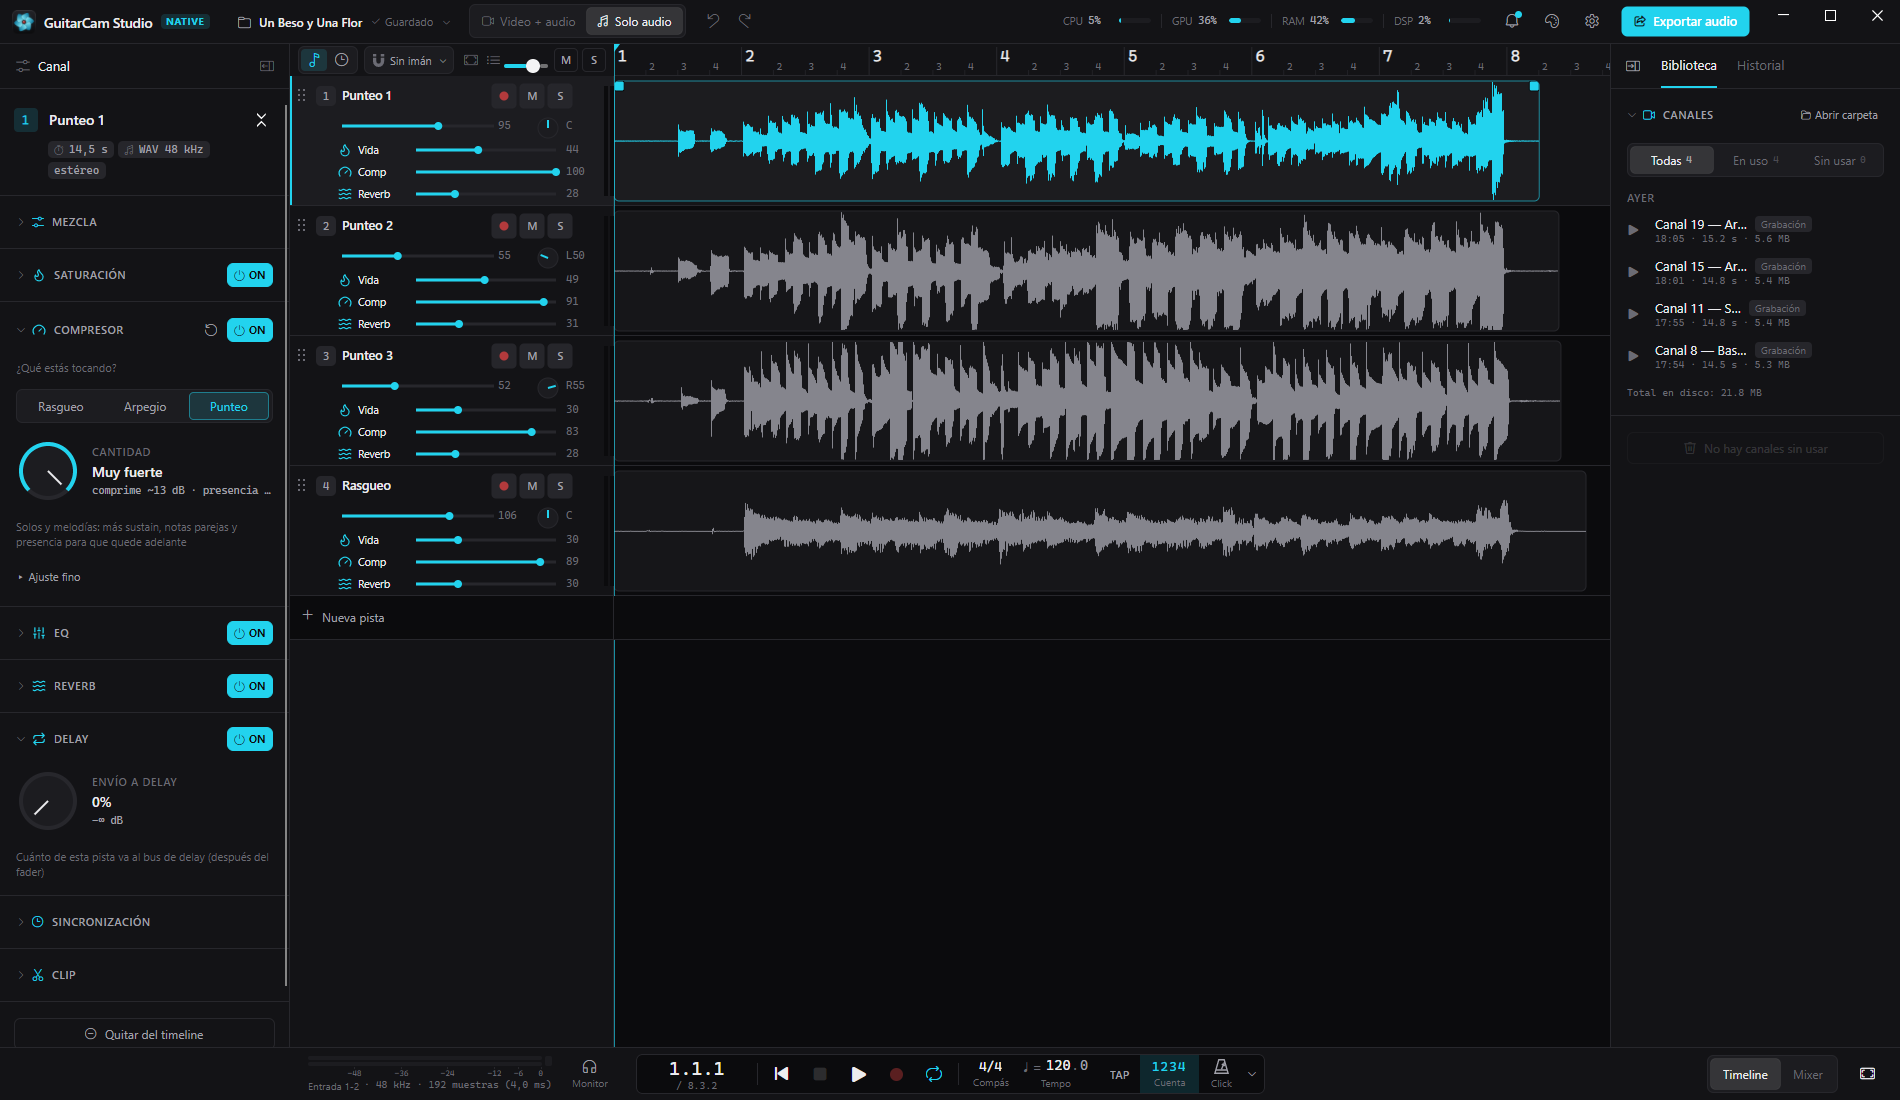
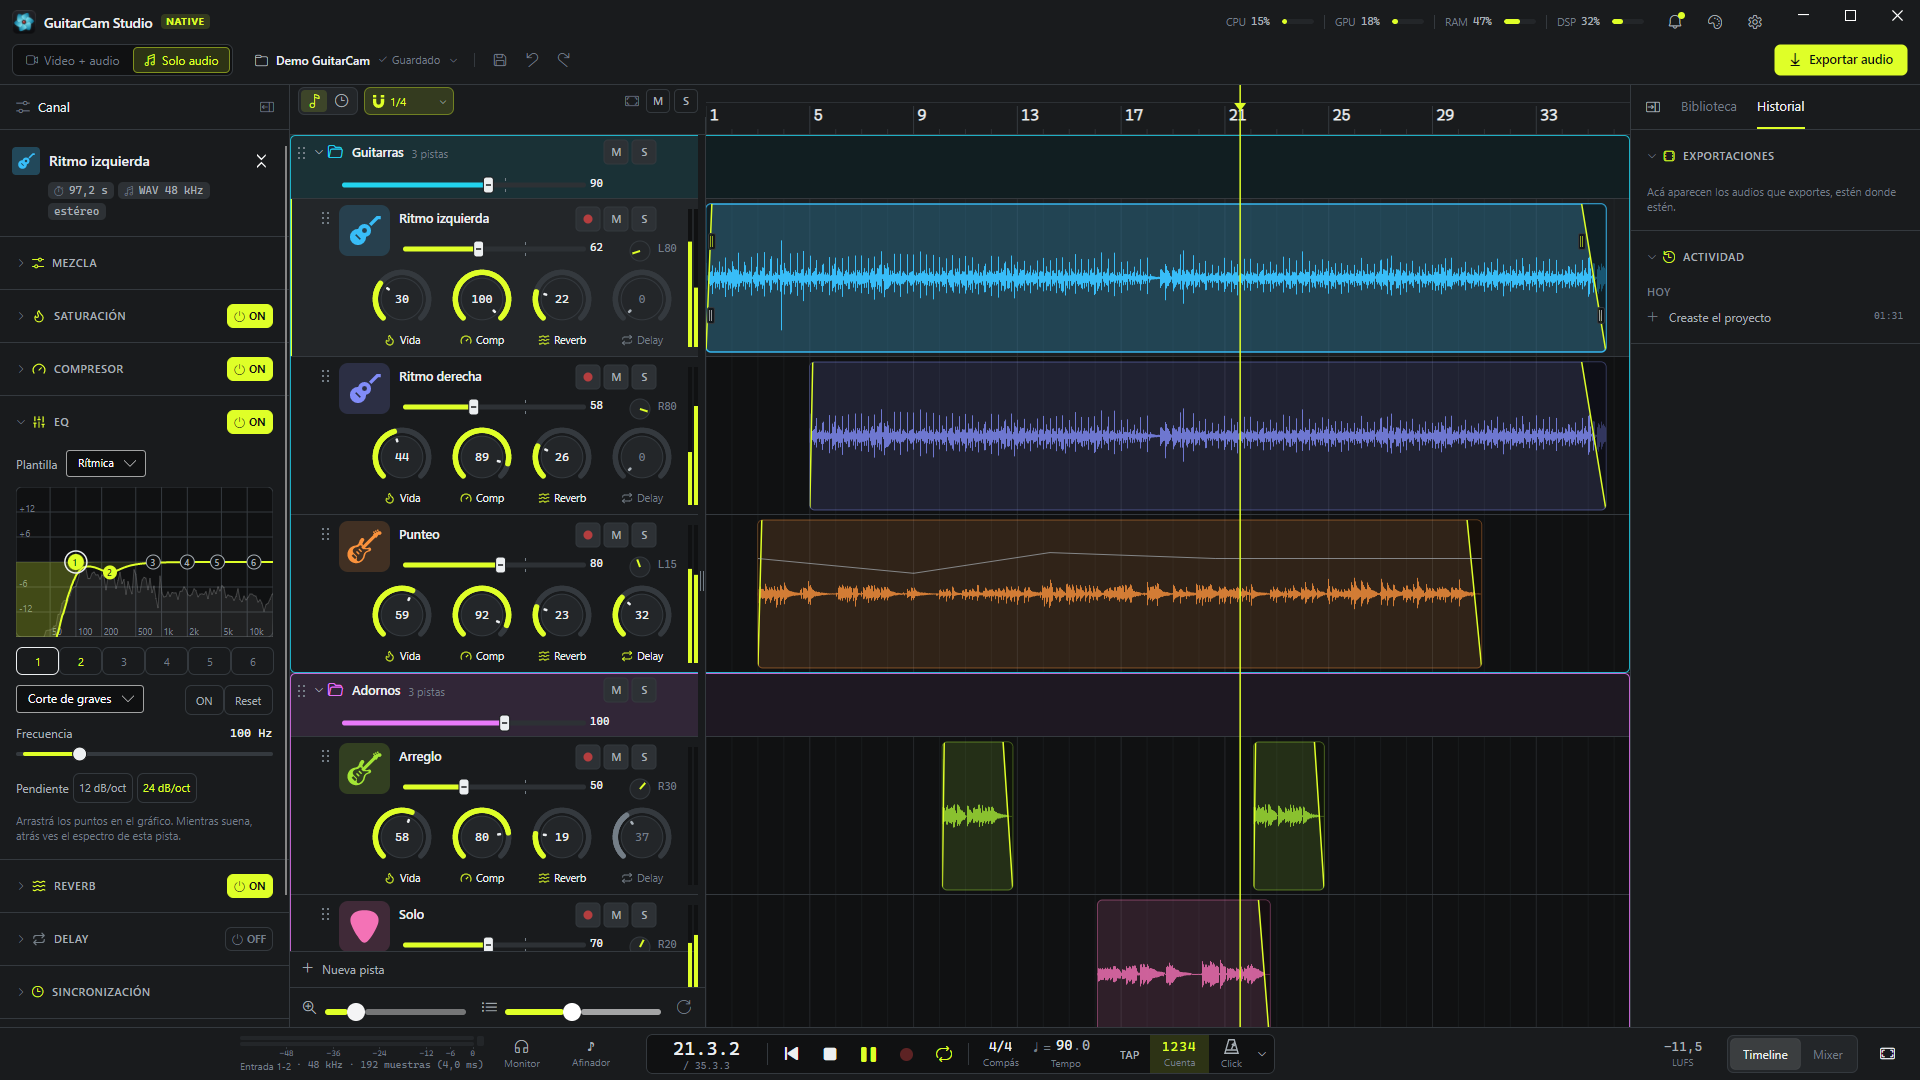
Refresh the README with new demo screenshots and an updated feature list

diff --git a/README.md b/README.md
@@ -12,34 +12,63 @@ sirve para hacer música sin video).
 Está pensada para usarse con la guitarra colgada: atajos de una tecla, botones grandes y un camino corto
 de **grabar → mezclar → exportar**.
 
-![El timeline, con un panel de video por toma](docs/screenshot-timeline.png)
+![El timeline en modo Video: un panel por toma, carpetas de pistas con su color, el inspector del canal y la pestaña de color](docs/screenshot-timeline.png)
 
-![El mixer, con una tira por pista, los retornos de reverb y delay y el master](docs/screenshot-mixer.png)
+| | |
+|---|---|
+| ![El mixer sonando: carpetas como VCA, retornos de reverb y delay y el master](docs/screenshot-mixer.png) | ![Formato vertical 9:16 apilado, listo para Reels, Shorts y TikTok](docs/screenshot-vertical.png) |
+| **El mixer**: una tira por pista, las carpetas como VCA, los retornos de reverb y delay y el master. | **Vertical 9:16** para Reels, Shorts y TikTok, con un look de color aplicado. |
 
-![El modo Solo audio: un DAW sin video](docs/screenshot-audio.png)
+![El modo Solo audio: pistas con sus knobs de efecto y el EQ con el espectro en vivo](docs/screenshot-audio.png)
+
+*Las capturas son del proyecto de demo; las imágenes de los paneles son fotos de [Unsplash](https://unsplash.com).*
 
 ## Qué hace
 
-- **Graba** audio por ASIO (entrada y salida en un mismo callback, con monitoreo) y video desde una cámara
-  (DirectShow o DroidCam por IP). Cada toma se escribe a disco mientras ocurre, así que un corte no la pierde.
-- **Edita en un timeline**: varias pistas, clips que se mueven, recortan, dividen y duplican, fades, ganancia
-  por clip con su curva de volumen, rango de borrado, deshacer y rehacer ilimitados, e importación de audio de
-  afuera (WAV, MP3, FLAC, OGG, M4A, AIFF). Se graba desde donde esté el cabezal, para regrabar solo un pedazo.
-  Las pistas se agrupan en **carpetas** que se pliegan, y se arrastran adentro y afuera por su manija.
-  Un sonido que te gusta se guarda como **plantilla de pista** y vuelve desde Nueva pista → Plantilla.
-- **Mezcla** con una cadena de efectos por pista: saturación ("Vida", válvula o cinta), compresor con
-  presets (Rasgueo / Arpegio / Punteo), EQ de 6 bandas con espectro en vivo, y envíos a reverb y delay,
-  más limitador master, paneo con plantillas y un mixer completo. Cada pista lleva su color y un ícono de
-  instrumento (guitarras, bajo, batería, synths, cuerdas, vientos, percusión…), en el timeline, el inspector y el mixer.
-  Cada carpeta tiene en el mixer su propio canal: su fader, M y S mandan sobre todas sus pistas, como un VCA.
-- **Compone el video**: un panel por pista con cover-fit, zoom, paneo y espejo, relaciones 16:9 / 9:16 / 1:1,
-  disposición lado a lado o apilada, y una pestaña de color (filtros, ajustes, efectos y plantillas).
-- **Exporta** a MP4 (mezcla offline + FFmpeg, con progreso y cancelación) o, en el modo **Solo audio**, a
-  WAV de 24 bits o MP3 de 320 kbps; si querés, además cada pista en su WAV (stems). Lo que ves en la vista
-  previa es lo que se exporta.
-- **Metrónomo** con compás, tempo, tap tempo, cuenta previa y seis sonidos de click; calibración de latencia
-  con cable o tocando. **Afinador** (notas en castellano, flechas que
-  te dicen para dónde girar la clavija y sensibilidad ajustable) y medidor de **LUFS** del master en la barra de transporte.
+### Grabar
+
+- Audio por **ASIO** (entrada y salida en un mismo callback, con monitoreo) y video desde una cámara (DirectShow o
+  DroidCam por IP). Cada toma se escribe a disco mientras ocurre, así que un corte no la pierde.
+- Se graba desde donde esté el cabezal, para regrabar solo un pedazo, con **metrónomo** (compás, tempo, tap tempo,
+  cuenta previa y seis sonidos de click) y **calibración de latencia** con cable o tocando.
+- **Afinador** con notas en castellano, flechas que te dicen para dónde girar la clavija y sensibilidad ajustable.
+
+### Editar
+
+- **Timeline** con varias pistas: clips que se mueven, recortan, dividen y duplican, fades, ganancia por clip con su
+  **curva de volumen**, rango de borrado, deshacer y rehacer ilimitados, e importación de audio de afuera (WAV, MP3,
+  FLAC, OGG, M4A, AIFF).
+- **Carpetas** que se pliegan y agrupan pistas; varias pistas se marcan con Ctrl+clic / Shift+clic y se mueven juntas.
+  Cada pista tiene su **color** (24, en orden de arco iris) y un **ícono de instrumento** (guitarras, bajo, batería,
+  synths, cuerdas, vientos, percusión…), su propio alto y sus knobs de Vida, Comp, Reverb y Delay en el encabezado.
+- Un sonido que te gusta se guarda como **plantilla de pista** y vuelve desde Nueva pista → Plantilla.
+- Arriba de la regla, un **rango A–B** para repetir un tramo (practicar el solo, mezclar un pedazo) y **marcadores**
+  con nombre (Intro, Estribillo, Solo…) para saltar de una parte a otra. Zoom de un tiempo a toda la canción con
+  las teclas 1 a 5.
+
+### Mezclar
+
+- Cadena de efectos por pista: saturación (**Vida**, válvula o cinta), **compresor** con presets (Rasgueo / Arpegio /
+  Punteo), **EQ de 6 bandas** con espectro en vivo, y envíos a **reverb** y **delay**, más limitador master y paneo
+  con plantillas.
+- **Mixer** completo; cada carpeta tiene su propio canal y su fader, M y S mandan sobre todas sus pistas, como un VCA.
+- Audio de nivel profesional: arrancar, parar, saltar y arrastrar el cabezal llevan su fundido, sin clics ni cortes.
+
+### Armar el video
+
+- Un panel por pista con cover-fit, zoom, paneo y espejo; relaciones **16:9 / 9:16 / 1:1**, disposición lado a lado
+  o apilada.
+- Pestaña de **color** con 26 looks (Brujo, Cine, Moody, Fresco, Noche azul, Hielo…), ajustes (exposición, contraste,
+  Blancos, Negros, Sensación de luz…), efectos y plantillas. Lo que ves en la vista previa es lo que se exporta.
+
+### Exportar
+
+- **MP4** (mezcla offline + FFmpeg, con progreso y cancelación), con presets para **Reels · TikTok**, **YouTube** e
+  **Instagram** (1:1 y 4:5) que acomodan el cuadro y llevan la mezcla a −14 LUFS.
+- En el modo **Solo audio**, WAV de 24 bits o MP3 de 320 kbps; si querés, además cada pista en su WAV (stems).
+  Medidor de **LUFS** del master en la barra de transporte.
+### Y además
+
 - **No pierde nada**: guardado atómico (solo después de cada edición, cada X minutos o a mano con Ctrl+S o el
   diskette, a elección en Configuración → Guardado; las tomas se guardan siempre), copias en `historial/` para volver
   atrás, recuperación de grabaciones interrumpidas y un gestor de proyectos con Papelera.
@@ -88,6 +117,9 @@ Todos se pueden cambiar en ⚙ Configuración → Atajos de teclado (menos Esc).
 | Shift+R o Num * | grabar (grabando: detener y guardar) |
 | R | armar / desarmar la pista seleccionada |
 | Inicio | volver al principio |
+| L | repetir en loop (el rango A–B, o todo el tema) |
+| I / O | inicio (A) / final (B) del rango en el cabezal |
+| K / , / . | marcador en el cabezal / ir al anterior / al siguiente |
 | C / Shift+C / T | click / cuenta previa / tap tempo |
 | A | afinador |
 | M / S | mute / solo de la pista |
@@ -105,6 +137,12 @@ Todos se pueden cambiar en ⚙ Configuración → Atajos de teclado (menos Esc).
 
 En el clip seleccionado, un clic sobre su línea de volumen agrega un punto; los puntos se arrastran y un
 doble clic los saca.
+
+En la franja de arriba de la regla, arrastrar marca el rango A–B (y prende el loop); sus bordes y el rango entero se
+arrastran. Doble clic agrega un marcador; los marcadores se arrastran, un clic salta ahí y doble clic los renombra.
+Clic derecho en la franja: agregar marcador, empezar o terminar el rango ahí, sacarlo, y en un marcador ponerle un
+nombre de la lista o repetir hasta el siguiente. Un rango marcado con Shift+arrastrar en una pista también se puede
+repetir desde su menú.
 
 Cada pista o carpeta puede tener su propio alto: arrastrá el borde de abajo de su encabezado (doble clic en el borde
 la vuelve al alto general). El botón ↺ al pie de los encabezados iguala todas.
@@ -166,6 +204,7 @@ la consola, sin abrir la ventana.
 | `exportar [proyecto] [--calidad alta\|estandar\|borrador] [--salida nombre]` | exporta el MP4 |
 | `exportar proyecto --audio wav\|mp3` | exporta solo la mezcla |
 | `exportar proyecto … --stems` | además, un WAV por pista en `<nombre> - stems` |
+| `exportar proyecto … --destino reels\|youtube\|ig-square\|ig-portrait [--lufs -14] [--cola 8]` | con el cuadro y el volumen de esa red; `--lufs` lleva la mezcla a ese volumen integrado, `--cola` deja sonar reverb y delay hasta N s después del último clip (0 = corta). Muestra los LUFS del resultado |
 | `proyecto abrir\|clips\|versiones\|volver carpeta` | abre un proyecto, lista pistas y clips, y recorre el historial |
 | `proyecto toma\|cortar carpeta [--camara]` | graba un tono como la ventana / lo corta sin cerrar, para probar la recuperación |
 | `proyecto editar carpeta mover\|recortar-inicio\|recortar-final\|fade-in\|fade-out clip delta` | edita un clip como en el timeline (más: `a-pista`, `dividir`, `duplicar`, `ganancia`, `curva`, `quitar-clip`, `nueva-pista`…) |
@@ -173,8 +212,9 @@ la consola, sin abrir la ventana.
 | `proyecto editar carpeta guardar-plantilla pista [nombre] \| usar-plantilla nombre`, `proyecto plantillas-de-pista x` | plantillas de pista (`pistas.json`) |
 | `proyecto encuadre\|sincronia\|formato\|modo carpeta …` | encuadre del clip, ajuste de sincronía, formato del video y modo Video / Solo audio |
 | `proyecto importar-audio carpeta archivo` | copia un audio de afuera a `media/` y lo pone en una pista |
+| `proyecto marcadores carpeta [agregar\|mover\|renombrar\|quitar …]`, `proyecto repetir carpeta [desde hasta \| --quitar]` | marcadores del tema y rango A–B del loop |
 | `proyecto historial carpeta` | tomas en uso y no usadas, exportaciones y actividad |
-| `proyecto verificar-deshacer\|verificar-clips\|verificar-tomas\|verificar-importar\|verificar-historial\|verificar-carpetas` | pruebas automáticas sobre una carpeta temporal |
+| `proyecto verificar-deshacer\|verificar-clips\|verificar-tomas\|verificar-importar\|verificar-historial\|verificar-carpetas\|verificar-marcadores` | pruebas automáticas sobre una carpeta temporal |
 | `proyectos lista\|plantillas\|nuevo\|renombrar\|duplicar\|borrar\|olvidar\|carpeta` | lo que hace el gestor de proyectos |
 | `proyectos guardar-plantilla\|borrar-plantilla` | plantillas de proyecto del usuario |
 | `proyectos plantillas-video\|guardar-plantilla-video\|aplicar-plantilla-video\|borrar-plantilla-video` | plantillas de video (filtro, ajustes y efectos) |

diff --git a/README_EN.md b/README_EN.md
@@ -12,35 +12,65 @@ music without video).
 It is designed to be used with the guitar strapped on: one-key shortcuts, big buttons and a short path of
 **record → mix → export**.
 
-![The timeline, with a video panel per take](docs/screenshot-timeline.png)
+![The timeline in Video mode: one panel per take, colored track folders, the channel inspector and the color tab](docs/screenshot-timeline.png)
 
-![The mixer, with one strip per track, the reverb and delay returns and the master](docs/screenshot-mixer.png)
+| | |
+|---|---|
+| ![The mixer while playing: folders as VCAs, reverb and delay returns and the master](docs/screenshot-mixer.png) | ![Vertical 9:16 stacked layout, ready for Reels, Shorts and TikTok](docs/screenshot-vertical.png) |
+| **The mixer**: one strip per track, folders as VCAs, the reverb and delay returns and the master. | **Vertical 9:16** for Reels, Shorts and TikTok, with a color look applied. |
 
-![Audio only mode: a DAW without video](docs/screenshot-audio.png)
+![Audio only mode: tracks with their effect knobs and the EQ with its live spectrum](docs/screenshot-audio.png)
+
+*The screenshots show the demo project; the panel images are photos from [Unsplash](https://unsplash.com).*
 
 ## What it does
 
-- **Records** audio over ASIO (input and output in the same callback, with monitoring) and video from a
-  camera (DirectShow or DroidCam over IP). Each take is written to disk as it happens, so a crash does not lose it.
-- **Edits on a timeline**: multiple tracks, clips you can move, trim, split and duplicate, fades, clip gain
-  with its own volume curve, range delete, unlimited undo and redo, and import of outside audio (WAV, MP3, FLAC,
-  OGG, M4A, AIFF). Recording starts at the playhead, so you can redo just one part. Tracks group into **folders**
-  that fold, and drag in and out by their handle. A sound you like saves as a **track preset** and comes back from
-  New track → Preset.
-- **Mixes** with a per-track effects chain: saturation ("Vida", tube or tape), a compressor with presets
-  (Strumming / Arpeggio / Lead), a 6-band EQ with live spectrum, and sends to reverb and delay, plus a master
-  limiter, pan templates and a full mixer. Each track gets its own color and an instrument icon (guitars, bass,
-  drums, synths, strings, winds, percussion…), shown in the timeline, the inspector and the mixer. Each folder gets
-  its own mixer channel: its fader, M and S rule all its tracks, like a VCA.
-- **Composes the video**: a panel per track with cover-fit, zoom, pan and mirror, 16:9 / 9:16 / 1:1 aspect
-  ratios, side-by-side or stacked layout, and a color tab (filters, adjustments, effects and templates).
-- **Exports** to MP4 (offline mix + FFmpeg, with progress and cancellation) or, in **Audio only** mode, to
-  24-bit WAV or 320 kbps MP3; optionally each track in its own WAV too (stems). What you see in the preview
-  is what gets exported.
-- **Metronome** with time signature, tempo, tap tempo, count-in and six click sounds; latency calibration
-  with a cable or by playing. A **tuner** (arrows that tell you which way to turn the peg, adjustable sensitivity) and a master **LUFS** meter in the transport bar.
-- **Never loses anything**: atomic autosave 1.5 s after every edit, copies in `historial/` to go back,
-  recovery of interrupted recordings and a project manager with a Recycle Bin.
+### Record
+
+- Audio over **ASIO** (input and output in the same callback, with monitoring) and video from a camera (DirectShow
+  or DroidCam over IP). Each take is written to disk as it happens, so a crash does not lose it.
+- Recording starts at the playhead, so you can redo just one part, with a **metronome** (time signature, tempo, tap
+  tempo, count-in and six click sounds) and **latency calibration** with a cable or by playing.
+- A **tuner** with arrows that tell you which way to turn the peg and adjustable sensitivity.
+
+### Edit
+
+- A multitrack **timeline**: clips you can move, trim, split and duplicate, fades, clip gain with its own **volume
+  curve**, range delete, unlimited undo and redo, and import of outside audio (WAV, MP3, FLAC, OGG, M4A, AIFF).
+- **Folders** that fold and group tracks; Ctrl+click / Shift+click marks several tracks to move them together. Each
+  track gets its own **color** (24, in rainbow order), an **instrument icon** (guitars, bass, drums, synths, strings,
+  winds, percussion…), its own height and Vida, Comp, Reverb and Delay knobs in its header.
+- A sound you like saves as a **track preset** and comes back from New track → Preset.
+- Above the ruler, an **A–B range** loops a stretch (to practice the solo or mix a part) and named **markers**
+  (Intro, Chorus, Solo…) jump from one part to another. Zoom from one beat to the whole song with keys 1 to 5.
+
+### Mix
+
+- A per-track effects chain: saturation (**Vida**, tube or tape), a **compressor** with presets (Strumming /
+  Arpeggio / Lead), a **6-band EQ** with live spectrum, and sends to **reverb** and **delay**, plus a master limiter
+  and pan templates.
+- A full **mixer**; each folder gets its own channel, and its fader, M and S rule all its tracks, like a VCA.
+- Professional-grade audio: starting, stopping, jumping and dragging the playhead all fade, with no clicks or dropouts.
+
+### Build the video
+
+- A panel per track with cover-fit, zoom, pan and mirror; **16:9 / 9:16 / 1:1** aspect ratios, side-by-side or
+  stacked layout.
+- A **color** tab with 26 looks (Brujo, Cine, Moody, Fresco, Noche azul, Hielo…), adjustments (exposure, contrast,
+  whites, blacks, light…), effects and templates. What you see in the preview is what gets exported.
+
+### Export
+
+- **MP4** (offline mix + FFmpeg, with progress and cancellation), with presets for **Reels · TikTok**, **YouTube** and
+  **Instagram** (1:1 and 4:5) that fit the frame and bring the mix to −14 LUFS.
+- In **Audio only** mode, 24-bit WAV or 320 kbps MP3; optionally each track in its own WAV too (stems). A master
+  **LUFS** meter sits in the transport bar.
+
+### And also
+
+- **Never loses anything**: atomic saving (after every edit, every X minutes or by hand with Ctrl+S or the disk
+  button, chosen in Settings → Saving; takes are always saved), copies in `historial/` to go back, recovery of
+  interrupted recordings and a project manager with a Recycle Bin.
 - Configurable language, theme and keyboard shortcuts.
 
 ## Where it is going
@@ -86,6 +116,9 @@ Spanish by default; the language is chosen in Settings.
 | Shift+R or Num * | record (while recording: stop and save) |
 | R | arm / disarm the selected track |
 | Home | back to the start |
+| L | loop (the A–B range, or the whole song) |
+| I / O | range start (A) / end (B) at the playhead |
+| K / , / . | marker at the playhead / go to the previous / the next one |
 | C / Shift+C / T | click / count-in / tap tempo |
 | A | tuner |
 | M / S | mute / solo the track |
@@ -101,6 +134,11 @@ Spanish by default; the language is chosen in Settings.
 | Wheel, Shift+wheel, Ctrl+wheel, Alt+wheel | scroll up and down, zoom, scroll sideways, track height (the modifiers can be changed in Settings → Keyboard shortcuts) |
 
 On the selected clip, a click on its volume line adds a point; points drag, and a double-click removes one.
+
+On the strip above the ruler, a drag sets the A–B range (and turns the loop on); its edges and the whole range drag.
+A double-click adds a marker; markers drag, a click jumps there and a double-click renames them. Right-click the strip
+to add a marker, start or end the range there or remove it, and on a marker to pick a name from the list or loop to
+the next one.
 
 ## How it is built
 
